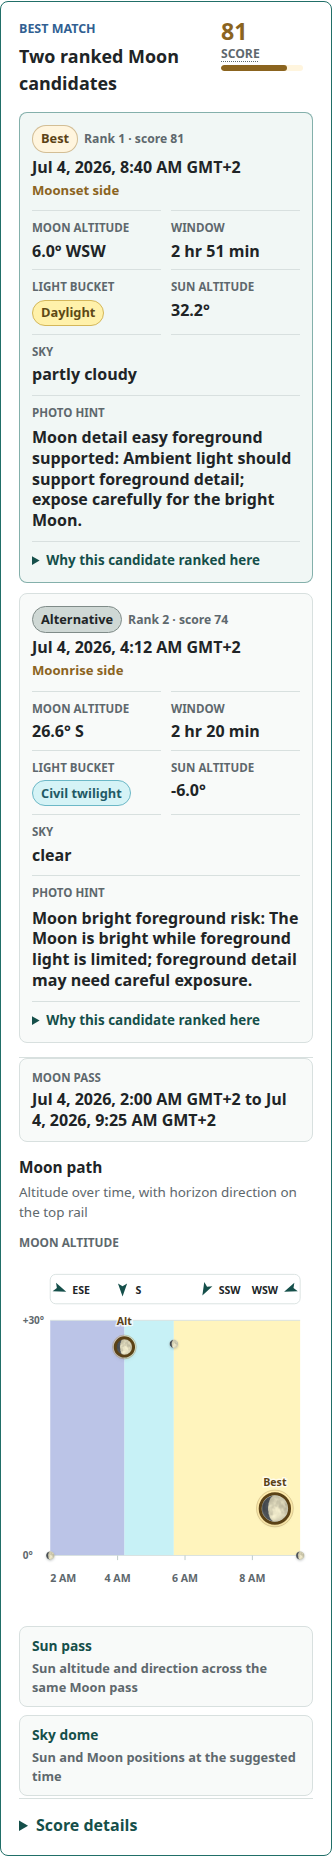
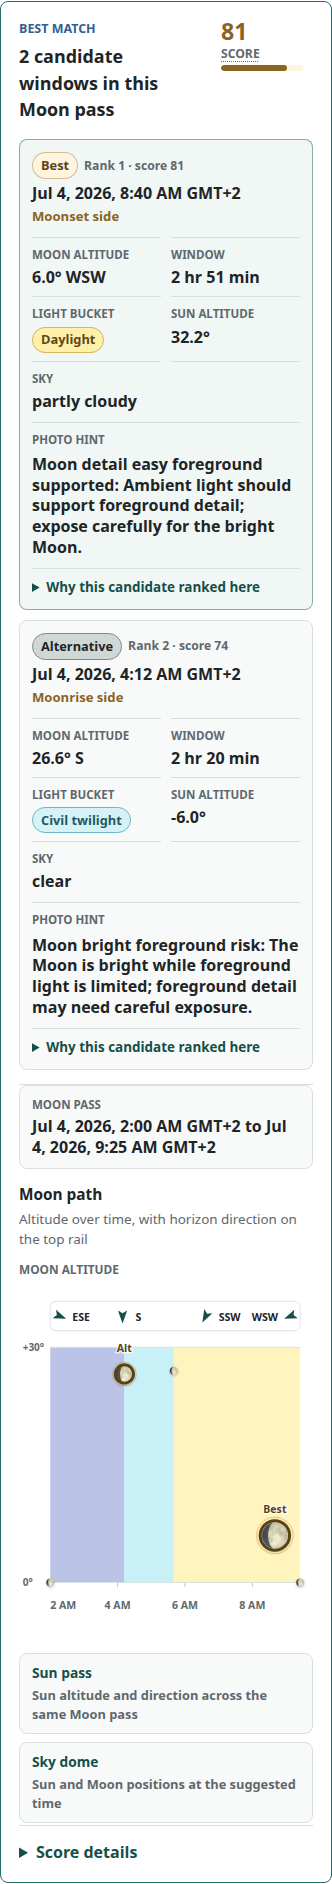
Clarify Moon pass candidate counts

diff --git a/backend/src/main/resources/static/responseView.js b/backend/src/main/resources/static/responseView.js
@@ -76,7 +76,7 @@ export function createResponseView(results, callbacks) {
     var opportunities = Array.isArray(payload.opportunities) ? payload.opportunities : [];
     var groups = opportunityGroups(opportunities);
     var children = [
-      resultSummary(payload, request, groups.length)
+      resultSummary(payload, request, groups.length, opportunities.length)
     ];
 
     if (location.kind === "real_location" && location.displayName && callbacks.onResolvedLocation) {
@@ -145,7 +145,7 @@ export function createResponseView(results, callbacks) {
     }, 0);
   }
 
-  function resultSummary(payload, request, passCount) {
+  function resultSummary(payload, request, passCount, candidateCount) {
     var location = payload.location || {};
     var sharePath = sharePathFor(request);
     var shareUrl = window.location.origin + sharePath;
@@ -153,13 +153,15 @@ export function createResponseView(results, callbacks) {
     var evaluatedText = Number.isFinite(payload.candidateWindowsEvaluated)
       ? payload.candidateWindowsEvaluated + " windows evaluated"
       : "Top-ranked forecast candidates";
+    var passText = passCount === 1 ? "1 ranked Moon pass" : passCount + " ranked Moon passes";
+    var candidateText = candidateCount === 1 ? "1 candidate window" : candidateCount + " candidate windows";
 
     return element("section", { className: "result-panel result-summary", ariaLabelledby: "result-title" },
       element("div", { className: "summary-topline" },
         element("div", {},
           element("p", { className: "eyebrow" }, "Resolved location"),
           element("h3", { id: "result-title" }, location.displayName || "Resolved location"),
-          element("p", { className: "summary-count" }, passCount === 1 ? "1 ranked Moon pass" : passCount + " ranked Moon passes")),
+          element("p", { className: "summary-count" }, passText + " · " + candidateText)),
         element("div", { className: "share-tools" },
           element("button", { type: "button", className: "copy-button", "data-share-url": shareUrl }, "Copy link"),
           element("a", { href: sharePath }, "Open share link"))

diff --git a/backend/src/main/resources/static/opportunityCard.js b/backend/src/main/resources/static/opportunityCard.js
@@ -212,12 +212,9 @@ function metricSpacer() {
 
 function passSummaryText(count) {
   if (count === 1) {
-    return "One ranked Moon candidate";
+    return "1 candidate window in this Moon pass";
   }
-  if (count === 2) {
-    return "Two ranked Moon candidates";
-  }
-  return count + " ranked Moon candidates";
+  return count + " candidate windows in this Moon pass";
 }
 
 function metricFact(label, value) {

diff --git a/tests/ui/ten-ranked-opportunities.spec.js b/tests/ui/ten-ranked-opportunities.spec.js
@@ -22,7 +22,9 @@ test("renders ten ranked candidates as responsive pass groups", async ({ page })
 
   await expect(page.locator(".pass-choice-card")).toHaveCount(10);
   await expect(page.locator(".moon-pass-card")).toHaveCount(5);
-  await expect(page.locator(".summary-count")).toHaveText("5 ranked Moon passes");
+  await expect(page.locator(".summary-count")).toHaveText(
+    "5 ranked Moon passes · 10 candidate windows"
+  );
   await expect(page.locator(".rank-label")).toHaveText([
     "Best match",
     "Option 2",
@@ -31,7 +33,7 @@ test("renders ten ranked candidates as responsive pass groups", async ({ page })
     "Option 5"
   ]);
   await expect(page.locator(".opportunity-title h3")).toHaveText(
-    Array(5).fill("Two ranked Moon candidates")
+    Array(5).fill("2 candidate windows in this Moon pass")
   );
   await expect(page.locator(".score-value")).toHaveText(["90", "89", "88", "87", "86"]);
   await expect(page.locator(".choice-rank")).toHaveText([

diff --git a/tests/ui/moon-pass-smoke.spec.js b/tests/ui/moon-pass-smoke.spec.js
@@ -18,9 +18,9 @@ test("renders grouped Moon pass cards", async ({ page }) => {
 
   await expect(page.locator(".moon-pass-card")).toHaveCount(2);
   await expect(page.locator(".moon-pass-card").first().locator(".opportunity-title h3"))
-    .toHaveText("Two ranked Moon candidates");
+    .toHaveText("2 candidate windows in this Moon pass");
   await expect(page.locator(".moon-pass-card").nth(1).locator(".opportunity-title h3"))
-    .toHaveText("One ranked Moon candidate");
+    .toHaveText("1 candidate window in this Moon pass");
   await expect(page.locator(".moon-pass-card").first().locator(".pass-context-row"))
     .toContainText("Moon pass");
   await expect(page.locator(".moon-pass-card").first().locator(".pass-context-row"))

diff --git a/docs/ui-spec.md b/docs/ui-spec.md
@@ -118,8 +118,9 @@ showing every backend fact at equal visual weight.
 Each user-facing result card should represent one Moon pass, even when that pass
 has only one ranked recommendation window. The card should be ranked by the best
 recommendation in that pass. The card title should state whether there is one
-or multiple ranked Moon candidates, while compact recommendation cards show
-the candidate window or windows inside the pass. The full pass start and end should be
+or multiple candidate windows in that Moon pass, while the page-level summary
+states both the ranked Moon-pass count and the total candidate-window count.
+The full pass start and end should be
 shown as lower-priority Moon pass context below the recommendation cards, with
 exact dates and a short location timezone label. Each recommendation card should show a
 `Best` or `Alternative` badge, its raw candidate rank and score, suggested time,